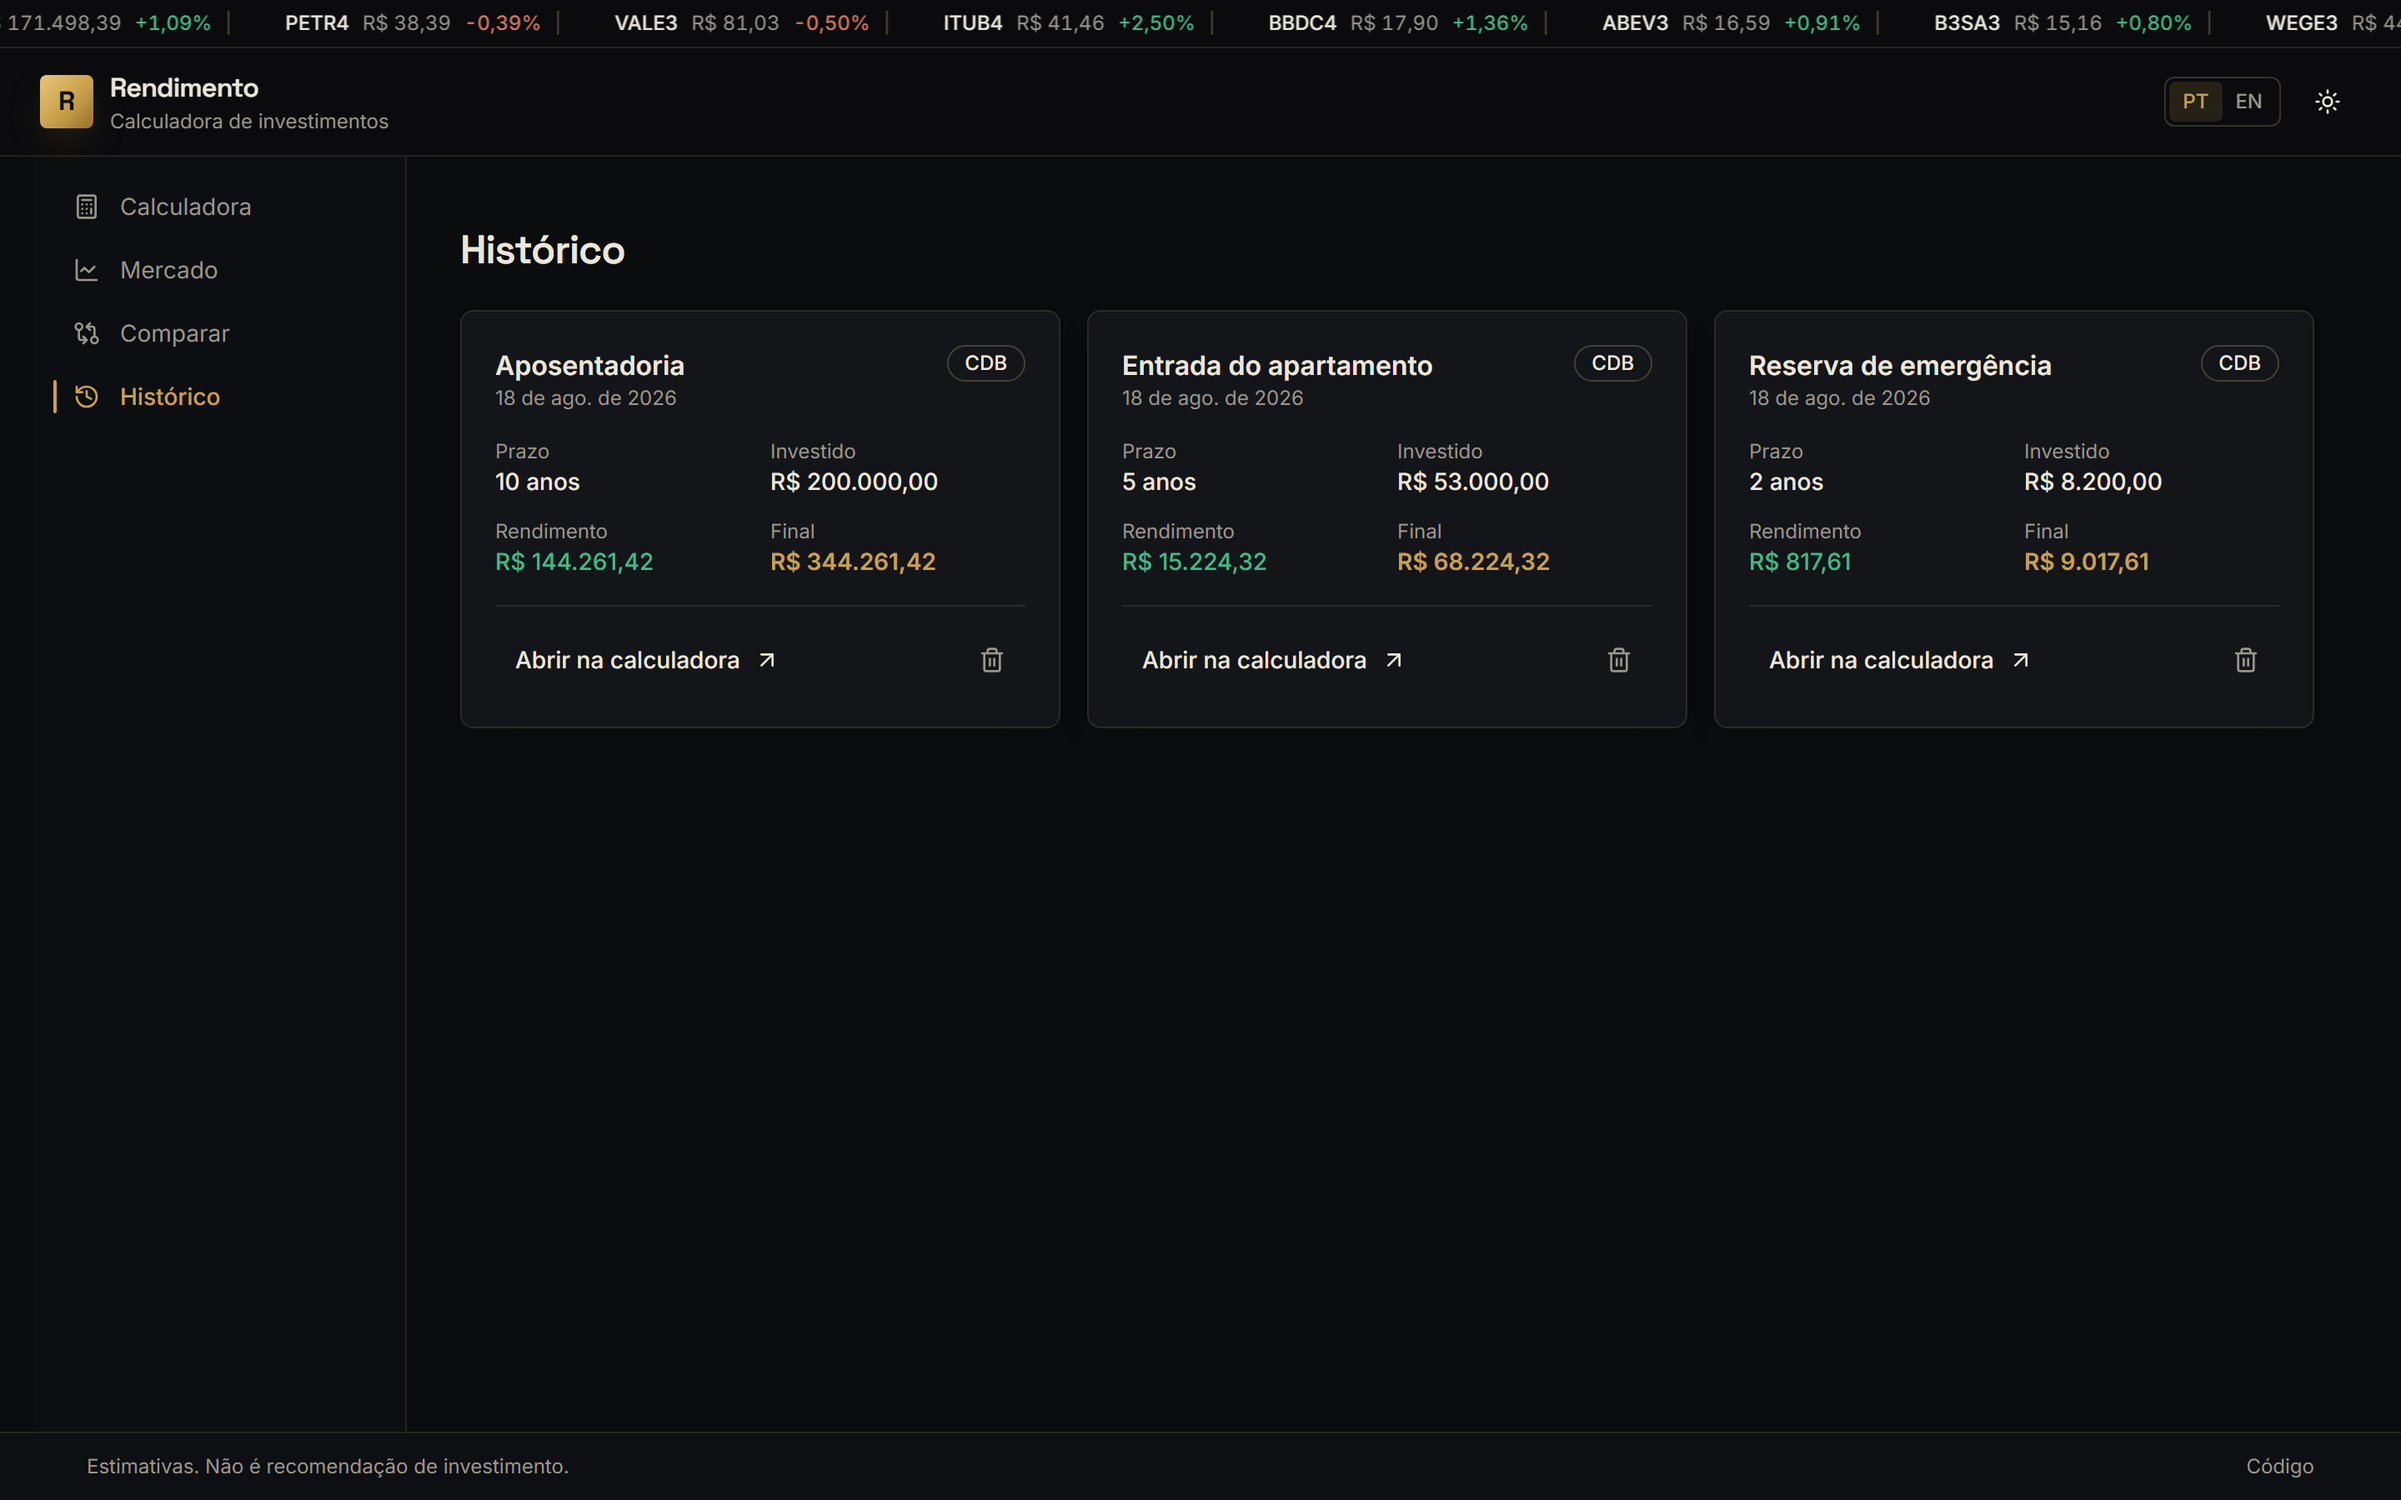
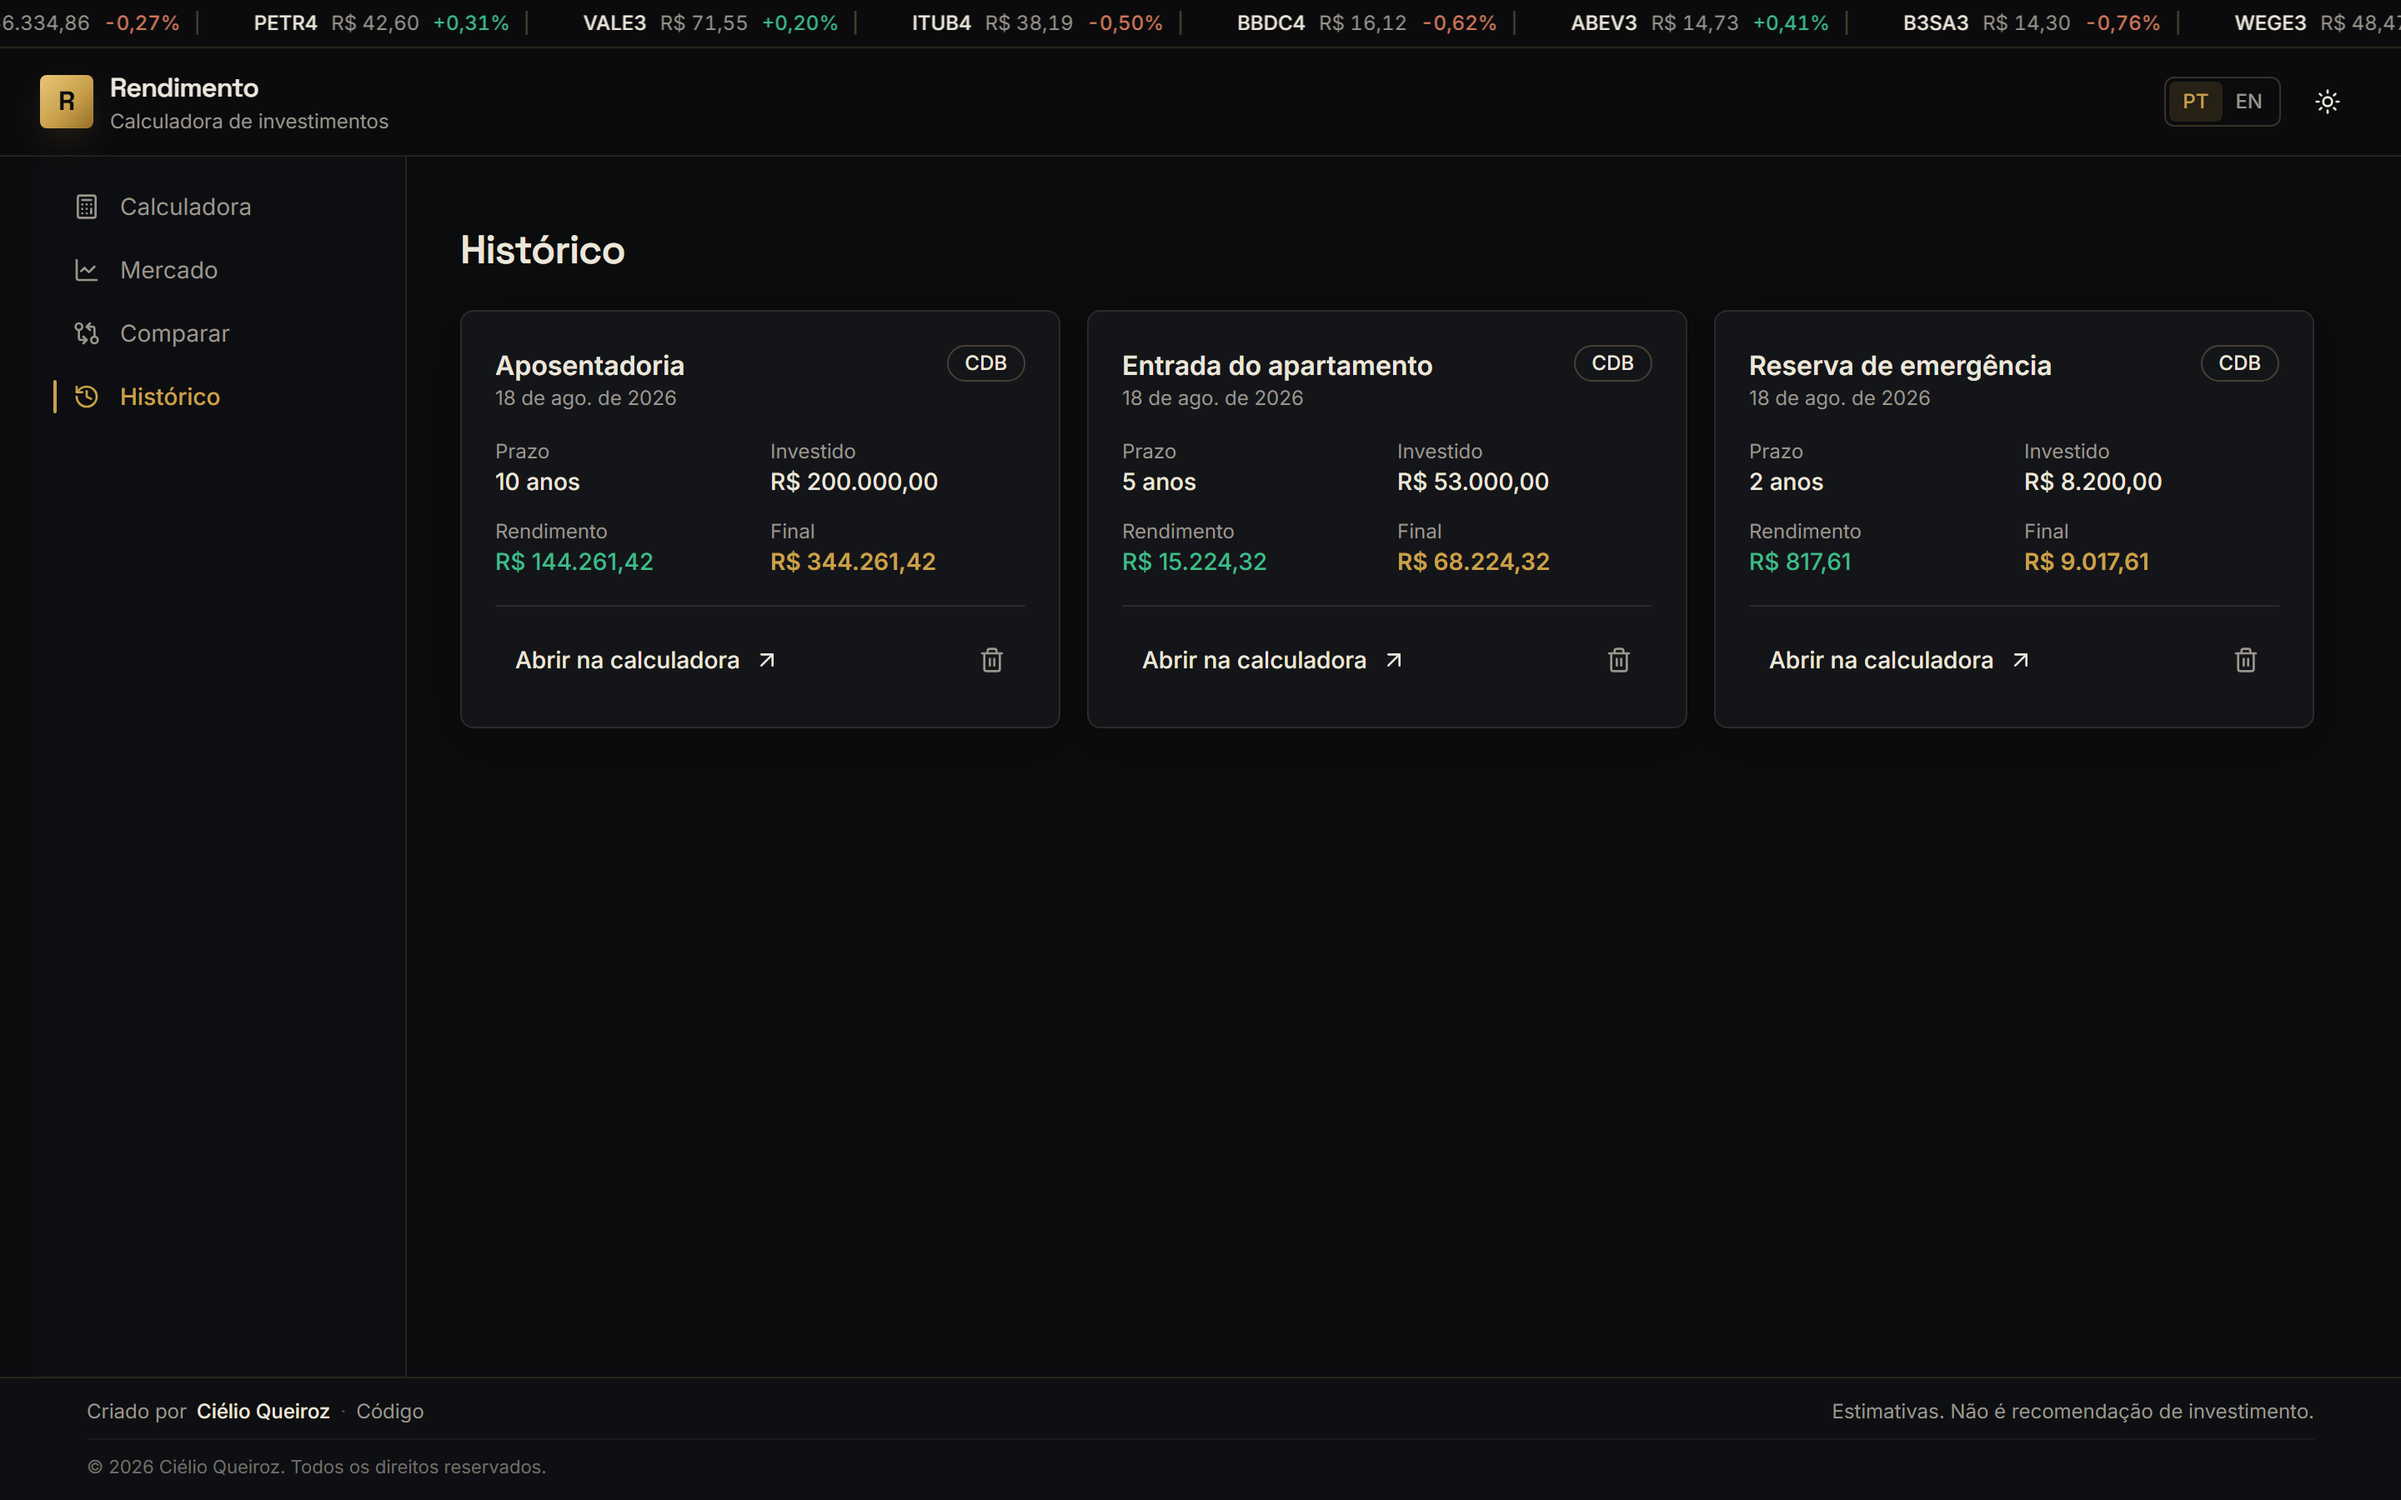
Adiciona autoria e direitos reservados no rodape
O rodape passa a creditar o autor, com link para o portfolio, e a
exibir o aviso de direitos reservados numa linha propria separada.

diff --git a/src/components/layout/Footer.tsx b/src/components/layout/Footer.tsx
@@ -1,22 +1,43 @@
 import { useTranslation } from '@/i18n/useTranslation'
 
 const REPO_URL = 'https://github.com/cielioqueiroz/calculadora-investimentos'
+const PORTFOLIO_URL = 'https://cielio-portfolio.vercel.app'
 
 export function Footer() {
   const { t } = useTranslation()
+  const year = new Date().getFullYear()
 
   return (
-    <footer className="border-t border-border/15 bg-card/40">
-      <div className="mx-auto flex w-full max-w-[1400px] flex-wrap items-center justify-between gap-x-4 gap-y-1 px-4 py-3 text-xs text-muted-foreground md:px-8">
-        <p>{t('footer.disclaimer')}</p>
-        <a
-          href={REPO_URL}
-          target="_blank"
-          rel="noreferrer"
-          className="transition-colors hover:text-primary"
-        >
-          {t('footer.code')}
-        </a>
+    <footer className="border-t border-border/15 bg-card/40 text-xs text-muted-foreground">
+      <div className="mx-auto w-full max-w-[1400px] px-4 py-3 md:px-8">
+        <div className="flex flex-col gap-1.5 md:flex-row md:items-center md:justify-between md:gap-4">
+          <p className="flex flex-wrap items-center gap-x-1.5 gap-y-1">
+            <span>{t('footer.createdBy')}</span>
+            <a
+              href={PORTFOLIO_URL}
+              target="_blank"
+              rel="noreferrer"
+              className="font-medium text-foreground underline-offset-4 transition-colors hover:text-primary hover:underline"
+            >
+              Ciélio Queiroz
+            </a>
+            <span aria-hidden className="opacity-40">
+              ·
+            </span>
+            <a
+              href={REPO_URL}
+              target="_blank"
+              rel="noreferrer"
+              className="underline-offset-4 transition-colors hover:text-primary hover:underline"
+            >
+              {t('footer.code')}
+            </a>
+          </p>
+          <p className="md:text-right">{t('footer.disclaimer')}</p>
+        </div>
+        <p className="mt-2 border-t border-border/10 pt-2 text-[11px] opacity-70">
+          {t('footer.rights', { year })}
+        </p>
       </div>
     </footer>
   )

diff --git a/src/i18n/translations.ts b/src/i18n/translations.ts
@@ -26,6 +26,8 @@ const pt = {
 
   'footer.disclaimer': 'Estimativas. Não é recomendação de investimento.',
   'footer.code': 'Código',
+  'footer.createdBy': 'Criado por',
+  'footer.rights': '© {year} Ciélio Queiroz. Todos os direitos reservados.',
 
   'category.fixed-income': 'Renda fixa',
   'category.savings': 'Poupança',
@@ -188,6 +190,8 @@ const en: Dictionary = {
 
   'footer.disclaimer': 'Estimates only. Not investment advice.',
   'footer.code': 'Source',
+  'footer.createdBy': 'Built by',
+  'footer.rights': '© {year} Ciélio Queiroz. All rights reserved.',
 
   'category.fixed-income': 'Fixed income',
   'category.savings': 'Savings',
